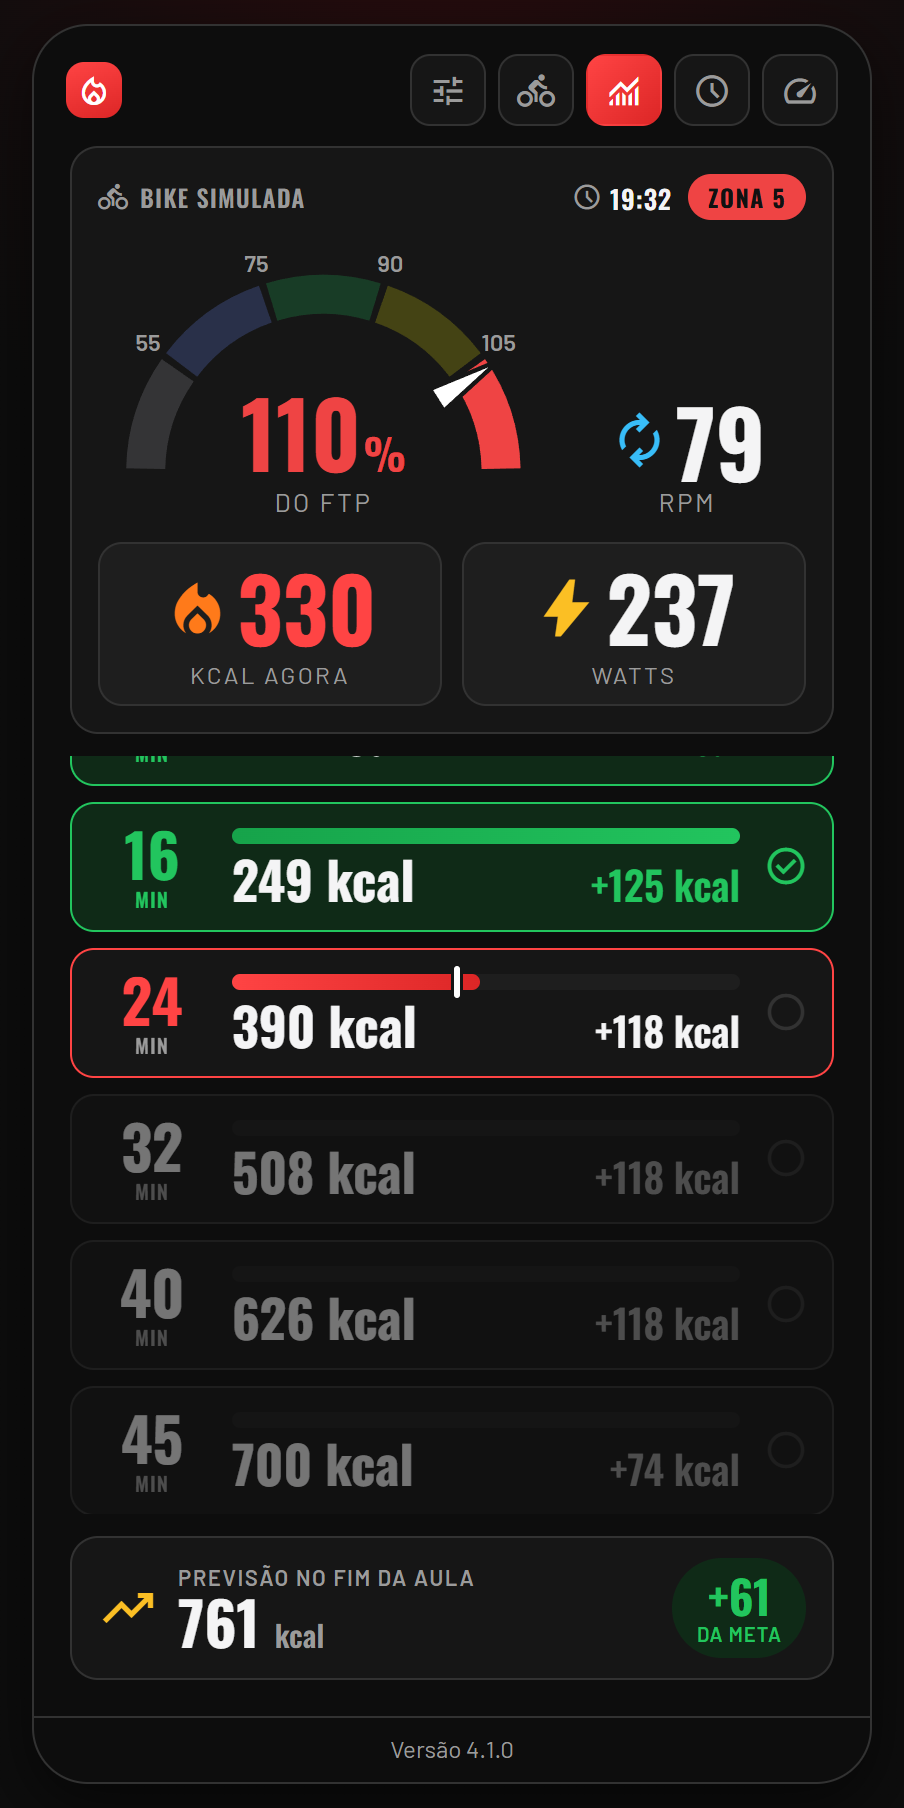
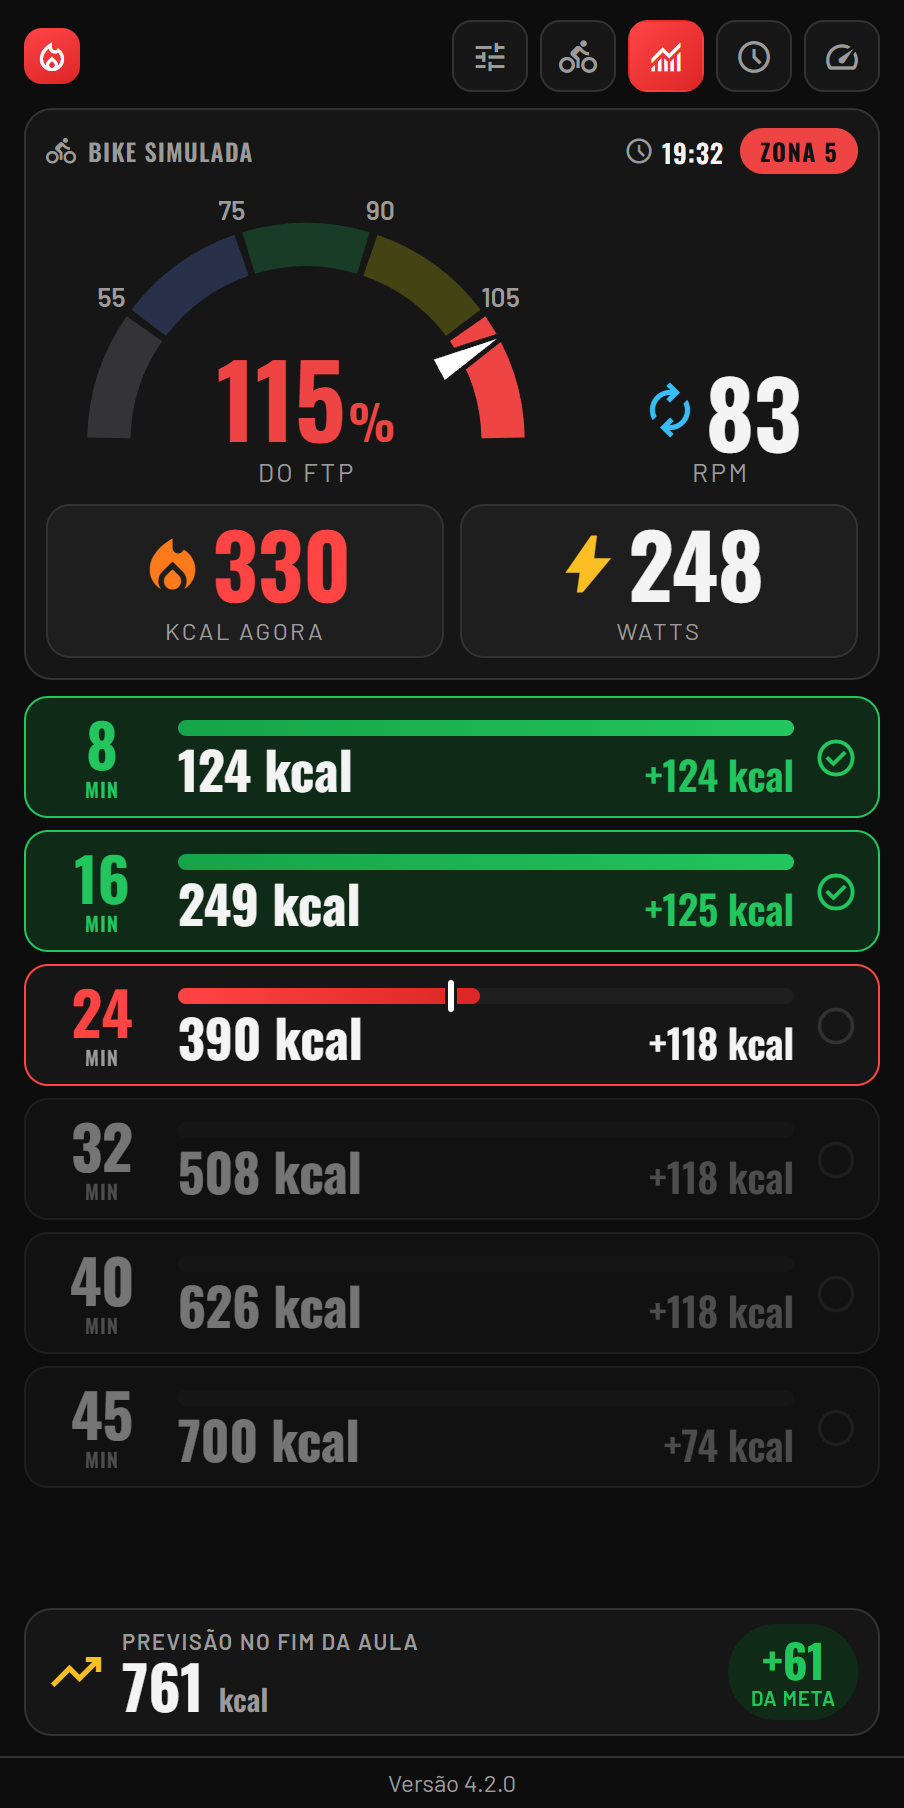
feat: full-screen layout on phones and tighter spacing
- up to 480px wide the app fills the screen: no gutter around the
  card, no border radius or shadow; safe-area insets become padding
- tighter paddings and gaps in the header, sides, bike panel, marker
  cards, forecast footer and version line (font sizes unchanged); all
  six markers now fit on an iPhone-sized screen
- layout e2e checks full-screen at 320-420px and a centered card on
  desktop
- screenshots script accepts SHOTS_DIR/SHOTS_W/SHOTS_H
- wiki pages 6 and 17 updated; bump version to 4.2.0

diff --git a/src/components/BikePanel.module.css b/src/components/BikePanel.module.css
@@ -1,4 +1,4 @@
-.panel{background:var(--surface);border:1px solid var(--line);border-radius:14px;padding:13px}
+.panel{background:var(--surface);border:1px solid var(--line);border-radius:14px;padding:9px 10px 10px}
 
 /* a zona atual define --zc; o selo e o número do velocímetro herdam a cor */
 .panel[data-zone="1"]{--zc:var(--z1)}
@@ -8,7 +8,7 @@
 .panel[data-zone="5"]{--zc:var(--z5)}
 
 /* linha de cima: bike à esquerda; tempo da aula, zona e "sem sinal" à direita */
-.hd{display:flex;align-items:center;justify-content:space-between;margin-bottom:9px}
+.hd{display:flex;align-items:center;justify-content:space-between;margin-bottom:4px}
 .title{font-family:"Oswald",sans-serif;font-weight:600;text-transform:uppercase;letter-spacing:.05em;font-size:12px;color:var(--muted);display:flex;align-items:center;gap:6px}
 .status{display:flex;align-items:center;gap:8px}
 .ctime{font-family:"Oswald",sans-serif;font-size:13px;font-weight:600;letter-spacing:.04em;color:var(--text);display:inline-flex;align-items:center;gap:4px;font-variant-numeric:tabular-nums}
@@ -17,7 +17,7 @@
 .nosig{color:var(--red-hi);font-size:12px;font-weight:600;display:flex;align-items:center;gap:5px}
 
 /* em cima o que o instrutor pede (zona e giro); o velocímetro fica com a coluna maior */
-.headline{display:grid;grid-auto-flow:column;grid-auto-columns:1fr;gap:10px;align-items:end}
+.headline{display:grid;grid-auto-flow:column;grid-auto-columns:1fr;gap:8px;align-items:end}
 .headline.wide{grid-template-columns:1.9fr 1fr}
 .ftp,.rpm{text-align:center}
 .unit{font-size:13px;color:var(--muted);text-transform:uppercase;letter-spacing:.1em}
@@ -29,8 +29,8 @@
 .rpm .icon{font-size:30px;color:#38bdf8}
 
 /* embaixo o resultado: kcal e watts */
-.stats{display:grid;grid-template-columns:1fr 1fr;gap:10px;margin-top:12px}
-.stat{background:var(--surface-2);border:1px solid var(--line);border-radius:12px;padding:10px 8px 8px;text-align:center}
+.stats{display:grid;grid-template-columns:1fr 1fr;gap:8px;margin-top:8px}
+.stat{background:var(--surface-2);border:1px solid var(--line);border-radius:12px;padding:7px 6px 6px;text-align:center}
 .stat .value{font-size:44px}
 .stat .icon{font-size:34px}
 .stat .unit{font-size:12px;margin-top:4px;display:flex;align-items:center;justify-content:center;gap:4px}
@@ -38,4 +38,4 @@
 .kcal .icon{color:#ff7a1a}
 .watts .icon{color:var(--gold)}
 
-.panel .reconnect{width:100%;margin-top:11px;padding:11px;font-size:14px}
+.panel .reconnect{width:100%;margin-top:8px;padding:10px;font-size:14px}

diff --git a/src/components/SetupView.module.css b/src/components/SetupView.module.css
@@ -1,15 +1,15 @@
 /* minmax(0,…): os campos não estouram a coluna em telas de 320px */
-.grid2{display:grid;grid-template-columns:minmax(0,1fr) minmax(0,1fr);gap:10px}
+.grid2{display:grid;grid-template-columns:minmax(0,1fr) minmax(0,1fr);gap:8px}
 
-.field{display:flex;flex-direction:column;gap:6px}
+.field{display:flex;flex-direction:column;gap:5px}
 .field label{font-size:11px;letter-spacing:.07em;text-transform:uppercase;color:var(--muted);font-weight:600;display:flex;align-items:center;gap:6px}
 .field input{
   width:100%;background:var(--surface-2);border:1px solid var(--line);color:var(--text);
-  border-radius:11px;padding:12px 13px;font-family:"Oswald",sans-serif;font-size:20px;font-weight:500;font-variant-numeric:tabular-nums;
+  border-radius:11px;padding:10px 12px;font-family:"Oswald",sans-serif;font-size:20px;font-weight:500;font-variant-numeric:tabular-nums;
 }
 .field input:focus{outline:none;border-color:var(--red)}
 
-.bikeline{display:flex;align-items:center;gap:8px;background:var(--surface);border:1px solid var(--line);border-radius:12px;padding:12px 13px;font-size:14px;color:var(--muted)}
+.bikeline{display:flex;align-items:center;gap:8px;background:var(--surface);border:1px solid var(--line);border-radius:12px;padding:10px 12px;font-size:14px;color:var(--muted)}
 .bikeline b{color:var(--text);font-family:"Oswald",sans-serif}
 .linkbtn{background:none;border:none;color:var(--muted);font-size:13px;cursor:pointer;font-family:"Barlow",sans-serif;padding:0;display:flex;align-items:center;gap:5px}
 .linkbtn span:last-child{text-decoration:underline}

diff --git a/src/components/BikesView.module.css b/src/components/BikesView.module.css
@@ -1,5 +1,5 @@
 /* cartão "Buscar" */
-.conn{background:var(--surface);border:1px solid var(--line);border-radius:14px;padding:13px;display:flex;flex-direction:column;gap:11px}
+.conn{background:var(--surface);border:1px solid var(--line);border-radius:14px;padding:11px;display:flex;flex-direction:column;gap:10px}
 .hd{display:flex;align-items:center;justify-content:space-between}
 .title{font-family:"Oswald",sans-serif;font-weight:600;text-transform:uppercase;letter-spacing:.05em;font-size:13px;display:flex;align-items:center;gap:7px}
 .pill{font-size:11px;font-weight:600;text-transform:uppercase;letter-spacing:.05em;padding:4px 9px;border-radius:999px;background:var(--surface-2);color:var(--muted);border:1px solid var(--line);display:inline-flex;align-items:center;gap:5px}
@@ -11,7 +11,7 @@
 
 /* linhas de bike (cadastradas e detectadas) */
 .list{display:flex;flex-direction:column;gap:8px}
-.bike{display:flex;align-items:center;justify-content:space-between;gap:10px;background:var(--surface-2);border:1px solid var(--line);border-radius:11px;padding:10px 12px;cursor:pointer}
+.bike{display:flex;align-items:center;justify-content:space-between;gap:10px;background:var(--surface-2);border:1px solid var(--line);border-radius:11px;padding:9px 10px;cursor:pointer}
 .bike.sel{border-color:var(--red);background:#2a1113}
 .left{display:flex;align-items:center;gap:10px;flex:1;min-width:0;cursor:pointer}
 .left :global(.mi){font-size:22px;color:var(--muted);flex:0 0 auto}

diff --git a/src/components/Forecast.module.css b/src/components/Forecast.module.css
@@ -1,5 +1,5 @@
 /* rodapé fixo da aula: previsão de kcal no fim, no ritmo médio da aula até agora */
-.forecast{flex:0 0 auto;display:flex;align-items:center;gap:10px;background:var(--surface);border:1px solid var(--line);border-radius:14px;padding:10px 13px}
+.forecast{flex:0 0 auto;display:flex;align-items:center;gap:8px;background:var(--surface);border:1px solid var(--line);border-radius:14px;padding:7px 10px}
 .icon{font-size:30px;color:var(--gold);font-variation-settings:"FILL" 1}
 .text{flex:1;min-width:0}
 .label{font-size:11px;font-weight:600;color:var(--muted);text-transform:uppercase;letter-spacing:.07em}
@@ -7,7 +7,7 @@
 .kcal small{font-size:15px;font-weight:600;color:var(--muted)}
 
 /* diferença pra meta: verde acima, vermelho abaixo */
-.diff{font-family:"Oswald",sans-serif;font-weight:700;font-size:23px;padding:6px 12px;border-radius:999px;background:var(--surface-2);color:var(--muted);white-space:nowrap;text-align:center;line-height:1.15}
+.diff{font-family:"Oswald",sans-serif;font-weight:700;font-size:23px;padding:5px 11px;border-radius:999px;background:var(--surface-2);color:var(--muted);white-space:nowrap;text-align:center;line-height:1.15}
 .diff small{display:block;font-family:"Barlow",sans-serif;font-size:10px;text-transform:uppercase;letter-spacing:.05em;font-weight:600}
 .diff.up{background:var(--good-dim);color:var(--good)}
 .diff.down{background:var(--bad-dim);color:var(--bad)}

diff --git a/src/components/App.module.css b/src/components/App.module.css
@@ -1,9 +1,16 @@
-/* o "cartão" do app: no máximo 420 px de largura e 880 de altura */
+/* o "cartão" do app: no máximo 420 px de largura e 880 de altura (no computador) */
 .phone{
   width:100%; max-width:420px;
   height:min(880px, calc(100dvh - 24px - env(safe-area-inset-top) - env(safe-area-inset-bottom)));
   background:var(--ground); border:1px solid var(--line); border-radius:28px;
   box-shadow:var(--shadow); overflow:hidden; display:flex; flex-direction:column; position:relative;
 }
-.stage{flex:1 1 auto;display:flex;flex-direction:column;padding:0 18px 18px;overflow-y:auto}
-.version{flex:0 0 auto;text-align:center;padding:8px 16px 10px;border-top:1px solid var(--line);color:var(--muted);font-size:12px}
+/* no celular: tela cheia, sem borda/sombra; o espaço do notch e da barra do sistema vira padding */
+@media (max-width:480px){
+  .phone{
+    max-width:none; height:100dvh; border:0; border-radius:0; box-shadow:none;
+    padding:env(safe-area-inset-top) env(safe-area-inset-right) env(safe-area-inset-bottom) env(safe-area-inset-left);
+  }
+}
+.stage{flex:1 1 auto;display:flex;flex-direction:column;padding:0 12px 10px;overflow-y:auto}
+.version{flex:0 0 auto;text-align:center;padding:5px 12px 6px;border-top:1px solid var(--line);color:var(--muted);font-size:12px}

diff --git a/src/components/IntervalList.module.css b/src/components/IntervalList.module.css
@@ -1,6 +1,6 @@
-.list{display:flex;flex-direction:column;gap:8px;flex:1 1 auto;min-height:0;overflow-y:auto;overscroll-behavior:contain;position:relative}
+.list{display:flex;flex-direction:column;gap:6px;flex:1 1 auto;min-height:0;overflow-y:auto;overscroll-behavior:contain;position:relative}
 
-.card{flex:0 0 auto;background:var(--surface);border:1px solid var(--line);border-radius:12px;padding:10px 12px;display:flex;align-items:center;gap:12px}
+.card{flex:0 0 auto;background:var(--surface);border:1px solid var(--line);border-radius:12px;padding:8px 10px;display:flex;align-items:center;gap:10px}
 .card.now{border-color:var(--red-hi)}
 .card.done{border-color:var(--good);background:var(--good-dim)}
 .card.locked{opacity:.45}
@@ -13,7 +13,7 @@
 .now .num{color:var(--red-hi)}
 .done .num,.done .num small{color:var(--good)}
 
-.info{flex:1;min-width:0;display:flex;flex-direction:column;gap:5px}
+.info{flex:1;min-width:0;display:flex;flex-direction:column;gap:4px}
 
 /* barra da kcal do bloco */
 .bar{height:8px;border-radius:999px;background:var(--surface-2);position:relative}

diff --git a/src/global.css b/src/global.css
@@ -21,6 +21,9 @@ body{
   display:flex; align-items:center; justify-content:center;
   padding:calc(12px + env(safe-area-inset-top)) 16px calc(12px + env(safe-area-inset-bottom));
 }
+/* no celular o app ocupa a tela inteira (sem o respiro em volta do cartão) — ver App.module.css */
+@media (max-width:480px){ body{padding:0} }
+
 /* raiz do Preact: ocupa a largura toda, como se o cartão fosse filho direto do body */
 #app{width:100%;display:flex;justify-content:center}
 
@@ -44,4 +47,4 @@ body{
 .btn[disabled]{opacity:.45;cursor:default}
 
 /* coluna das telas Configurar e Bikes */
-.col{display:flex;flex-direction:column;gap:14px}
+.col{display:flex;flex-direction:column;gap:12px}

diff --git a/src/components/Header.module.css b/src/components/Header.module.css
@@ -1,4 +1,4 @@
-.header{display:flex;align-items:center;justify-content:space-between;gap:8px;padding:14px 16px 10px;flex:0 0 auto}
+.header{display:flex;align-items:center;justify-content:space-between;gap:8px;padding:10px 12px 8px;flex:0 0 auto}
 .brand{display:flex;align-items:center;gap:8px;min-width:0}
 .flame{width:28px;height:28px;border-radius:9px;background:linear-gradient(160deg,var(--red-hi),var(--red));display:grid;place-items:center;color:#fff;font-size:18px;flex:0 0 auto}
 .brand h1{font-family:"Oswald",sans-serif;font-weight:600;letter-spacing:.04em;text-transform:uppercase;font-size:14px;margin:0;white-space:nowrap;overflow:hidden;text-overflow:ellipsis}

diff --git a/e2e/layout.spec.ts b/e2e/layout.spec.ts
@@ -12,6 +12,9 @@ for (const width of [320, 360, 375, 390, 420]) {
 
     expect(await noHorizontalScroll()).toBe(true);
     expect(await inside('[data-testid="nav"]', '[data-testid="phone"]')).toBe(true);
+    // no celular o app ocupa a tela inteira (sem margem em volta do cartão)
+    const phone = (await page.getByTestId('phone').boundingBox())!;
+    expect([phone.x, phone.y, phone.width, phone.height]).toEqual([0, 0, width, 800]);
 
     await app.startWithSim();
     await app.setClock('12:34');

diff --git a/e2e/layout-desktop.spec.ts b/e2e/layout-desktop.spec.ts
@@ -1,0 +1,10 @@
+import { expect, test } from './fixtures';
+
+test('no computador o app continua como um cartão centralizado', async ({ app, page }) => {
+  await page.setViewportSize({ width: 1280, height: 900 });
+  await app.open();
+  const phone = (await page.getByTestId('phone').boundingBox())!;
+  expect(phone.width).toBe(420);
+  expect(Math.round(phone.x + phone.width / 2)).toBe(640);
+  expect(phone.y).toBeGreaterThan(0);
+});

diff --git a/src/components/LiveView.module.css b/src/components/LiveView.module.css
@@ -1,2 +1,2 @@
 /* painel da bike fixo em cima, previsão fixa embaixo; só a lista de marcos (flex:1 + min-height:0) rola */
-.live{display:flex;flex-direction:column;gap:11px;flex:1 1 auto;min-height:0}
+.live{display:flex;flex-direction:column;gap:8px;flex:1 1 auto;min-height:0}

diff --git a/docs/wiki/06-interface.md b/docs/wiki/06-interface.md
@@ -79,7 +79,7 @@ src/components/FtpGauge.module.css    o estilo só dele
 - **Cor da zona:** o `BikePanel` põe `data-zone="4"` no painel; o `BikePanel.module.css` traduz pra `--zc: var(--z4)`; o selo e o % do velocímetro (`fill: var(--zc, var(--text))`) herdam.
 - **Ganchos de teste:** como os nomes das classes mudam, os testes nunca usam classe — usam `id` (`#rpm`, `#intervals`), `data-testid` (`interval`, `interval-goal`, `bike-name`, `gauge-band`…) e atributos de estado (`data-state="done"`, `data-selected`, `data-on`, `data-visible`).
 - Fontes: **Oswald** (números e títulos), **Barlow** (texto), **Material Symbols** (ícones por ligadura: `<span class="mi">schedule</span>` vira o desenho do relógio — é o componente `Icon`).
-- O `.phone` do `App.module.css` é o "cartão" de no máximo 420 px; `#app` (global) ocupa a largura toda pra ele centralizar.
+- O `.phone` do `App.module.css` é o "cartão" de no máximo 420 px, centralizado no computador; `#app` (global) ocupa a largura toda pra ele centralizar. **No celular (até 480 px de largura)** um `@media` tira a margem em volta, a borda e a sombra: o app ocupa a tela inteira e os paddings internos são enxutos (12 px nas laterais) pra sobrar espaço pra lista de marcos.
 
 ## Exercícios
 
